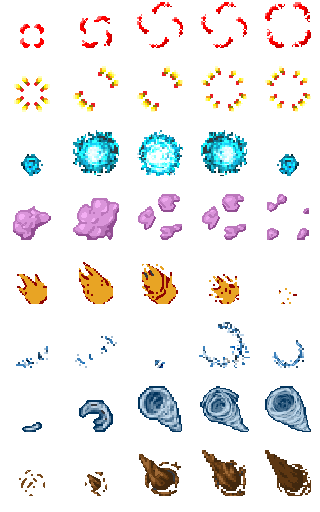
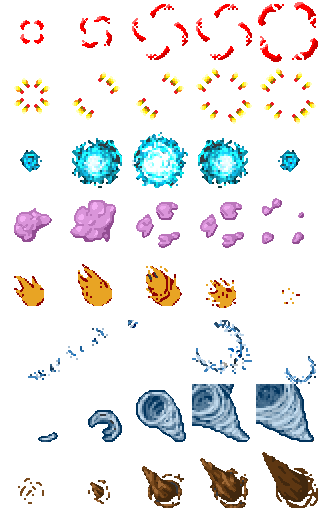
Efectos y cadáveres HD en el mismo sitio que su versión de 32 px
Las plantillas de los efectos se centraban y se reescalaban (subían hasta
8 px y el efecto 115 salía a la mitad), y la del cadáver del goblin se
centraba. Ahora se dibujan al doble y en su sitio: anclados abajo a la
derecha y con su offset dentro del dibujo, igual que los personajes.

Claude-Session: https://claude.ai/code/session_01VevDreKMBDk4VnGyCXtmsL

diff --git a/docs/ARTE-HD.md b/docs/ARTE-HD.md
@@ -113,11 +113,14 @@ Personajes: `caballero`, `paladin`, `hechicero`, `druida` (jugadores, uno por vo
 
 ### `cadaveres.png` — 256×64 (4 celdas de 64×64)
 
-rata muerta · lobo muerto · goblin muerto · montón de huesos. Tumbados en el suelo, vistos desde arriba.
+rata muerta · lobo muerto · goblin muerto · montón de huesos. Tumbados en el suelo, vistos desde arriba,
+y anclados abajo a la derecha de la celda como cualquier objeto.
 
 ### `efectos.png` — 320×512 (5 columnas × 8 filas de 64×64)
 
-Cada fila es una animación de **5 fotogramas** que empieza pequeña, crece y se desvanece:
+Cada fila es una animación de **5 fotogramas** que empieza pequeña, crece y se desvanece. Cada
+celda es la casilla del efecto: se dibuja **en el mismo sitio que el efecto de 32 px** al que
+sustituye (anclado abajo a la derecha, sin centrar ni reescalar), así que un golpe cae donde caía.
 
 | Fila | Efecto |
 |---|---|
